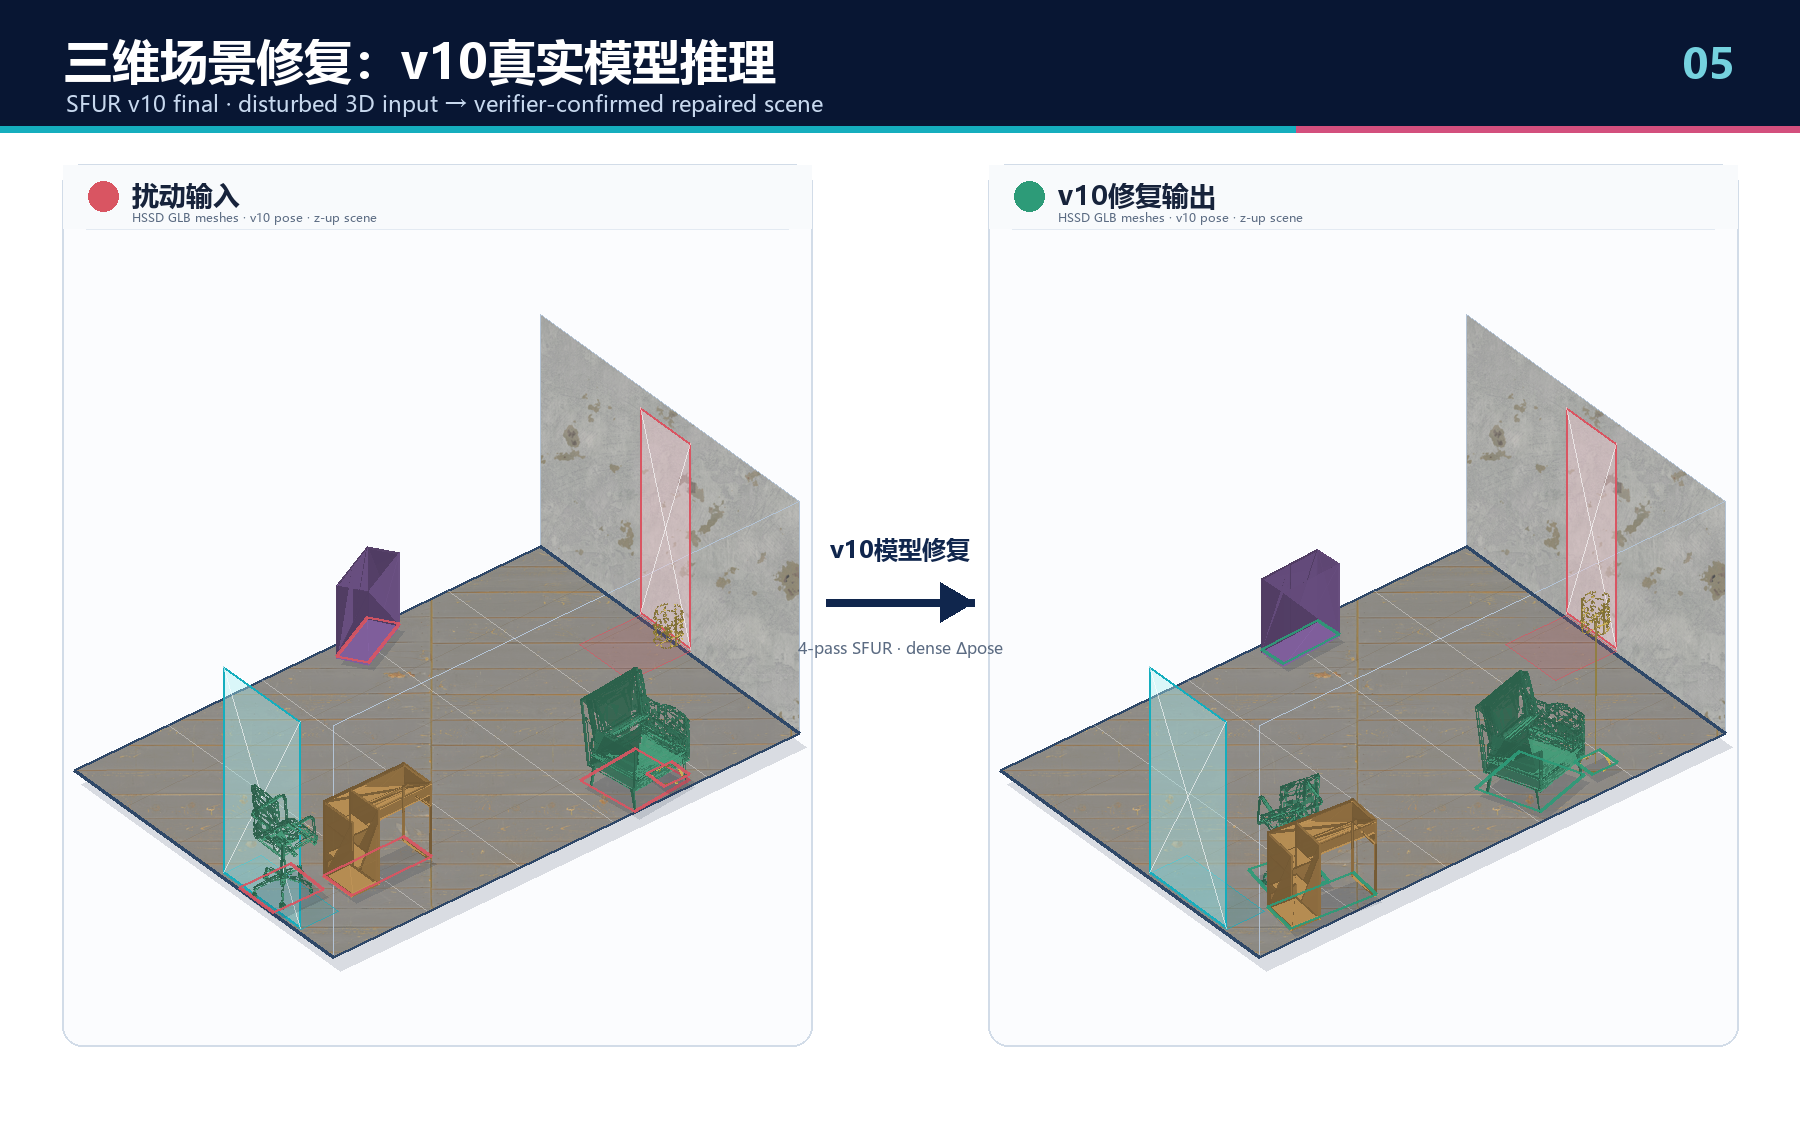
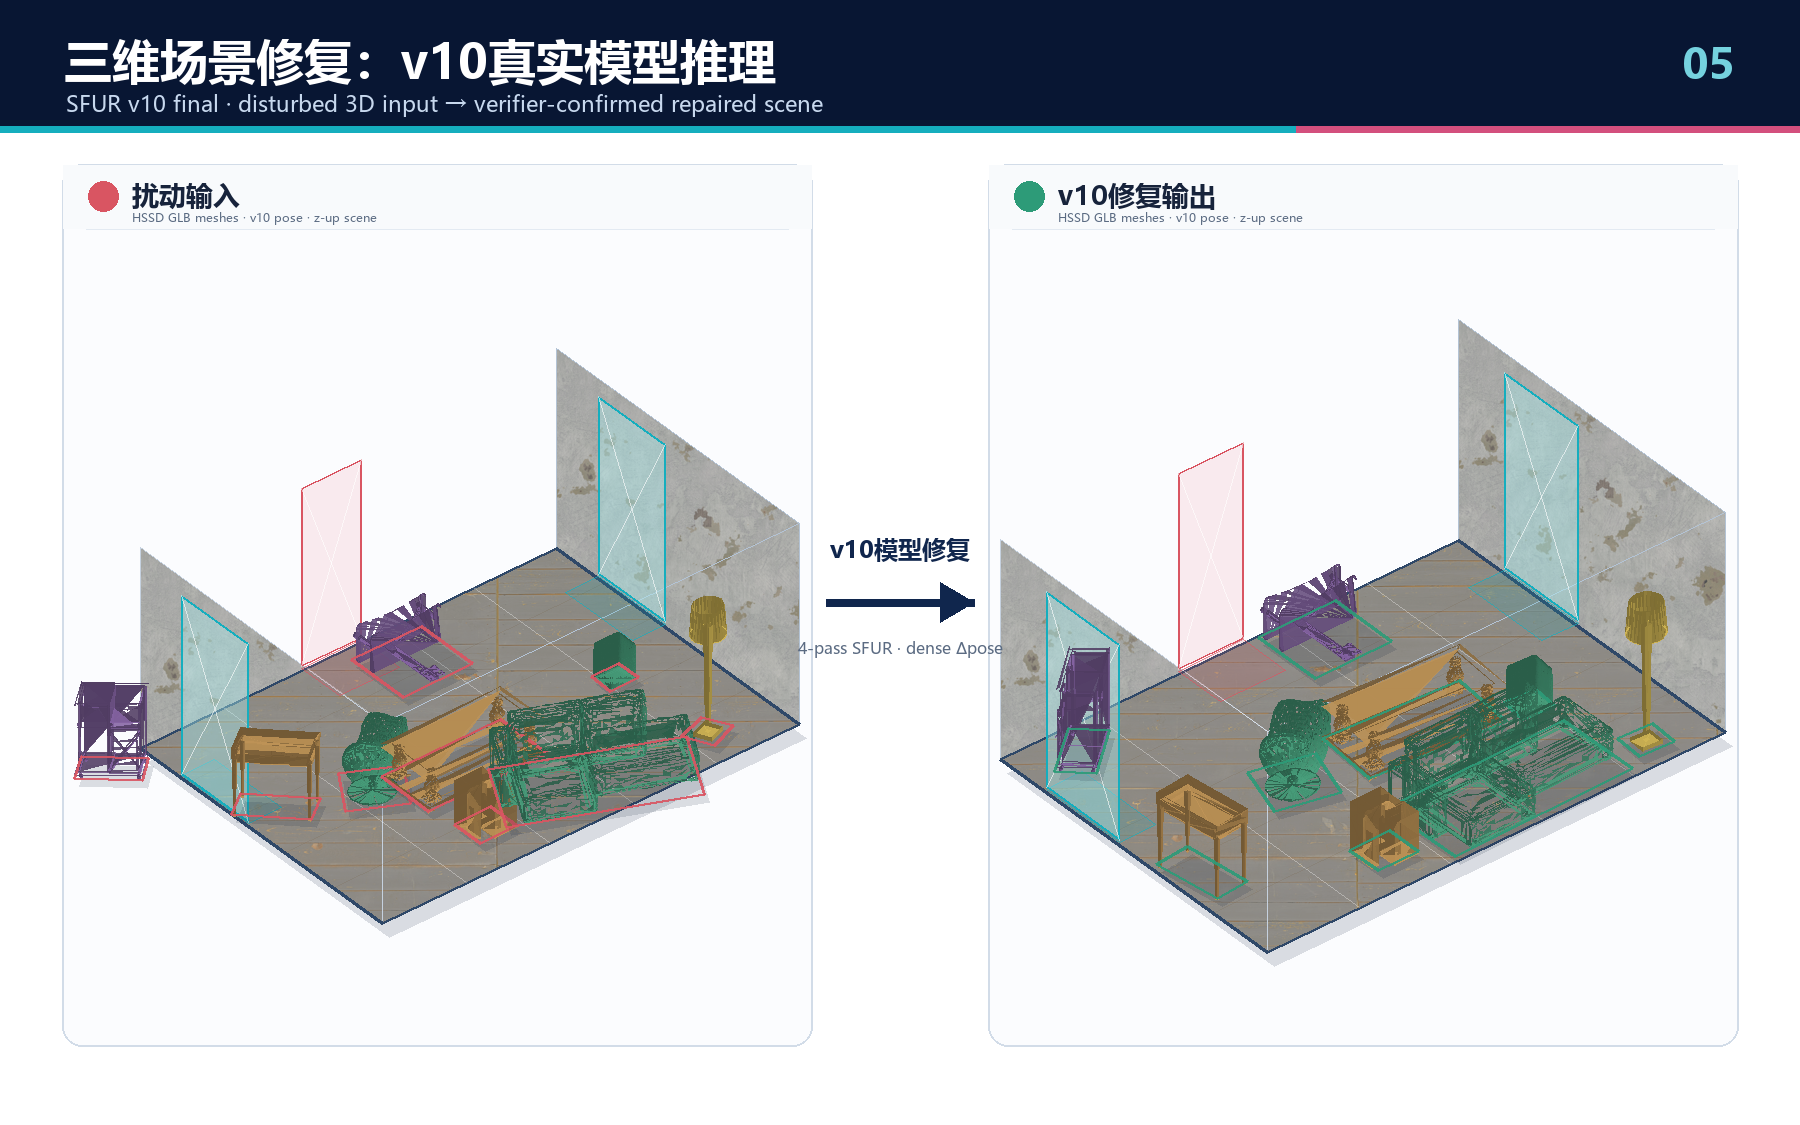
Update application concept demo

Changed region(s): [[0.0311, 0.28, 0.4667, 0.8711], [0.5289, 0.28, 0.9644, 0.8711]]

diff --git a/tools/render_academic_poster_figures.py b/tools/render_academic_poster_figures.py
@@ -376,8 +376,9 @@ def _fit_scene_projector(
     for x in (-length / 2, length / 2):
         for y in (-room_width / 2, room_width / 2):
             samples.append((x, y, 0))
-    for x, y in ((-length / 2, room_width / 2), (length / 2, room_width / 2), (length / 2, -room_width / 2)):
-        samples.append((x, y, wall_height))
+    for x in (-length / 2, length / 2):
+        for y in (-room_width / 2, room_width / 2):
+            samples.append((x, y, wall_height))
 
     for opening in scene["openings"]:
         cx_m, cy_m, _ = opening["clearance_center_xyz_m"]
@@ -695,6 +696,12 @@ def draw_realistic_3d_scene(
         project(-length / 2, room_width / 2, wall_h),
         project(length / 2, room_width / 2, wall_h),
     ]
+    left_wall = [
+        project(-length / 2, room_width / 2, 0),
+        project(-length / 2, -room_width / 2, 0),
+        project(-length / 2, -room_width / 2, wall_h),
+        project(-length / 2, room_width / 2, wall_h),
+    ]
     right_wall = [
         project(length / 2, -room_width / 2, 0),
         project(length / 2, room_width / 2, 0),
@@ -702,9 +709,11 @@ def draw_realistic_3d_scene(
         project(length / 2, -room_width / 2, wall_h),
     ]
     _paste_texture_polygon(image, back_wall, WALL_TEXTURE, tint="#f2f5f8", opacity=205)
+    _paste_texture_polygon(image, left_wall, WALL_TEXTURE, tint="#edf2f7", opacity=145)
     _paste_texture_polygon(image, right_wall, WALL_TEXTURE, tint="#e9eef4", opacity=185)
     _paste_texture_polygon(image, floor, FLOOR_TEXTURE, tint="#d2b37e", opacity=220)
     draw.polygon(back_wall, outline="#b3c3d5")
+    draw.polygon(left_wall, outline="#c5d1df")
     draw.polygon(right_wall, outline="#b3c3d5")
     draw.line(floor + [floor[0]], fill="#2f4868", width=3)
 
@@ -2003,7 +2012,7 @@ def figure_application() -> None:
     candidates = [
         row
         for row in prediction_payload["examples"]
-        if row["scene_id"] == "clean_v2_prod_0018_home_office_0042"
+        if row["scene_id"] == "clean_v2_prod_0018_living_room_0006"
         and row.get("geometry_cleared")
         and row.get("sfur_after", {}).get("scene_functional_pass")
     ]
